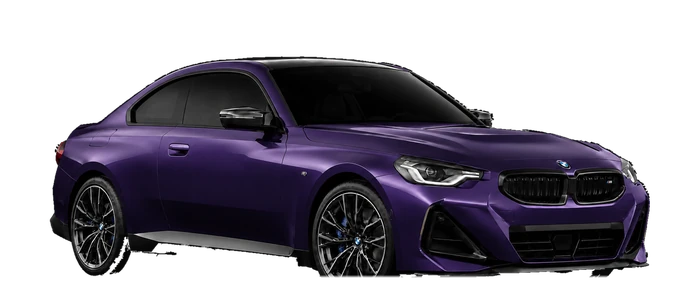
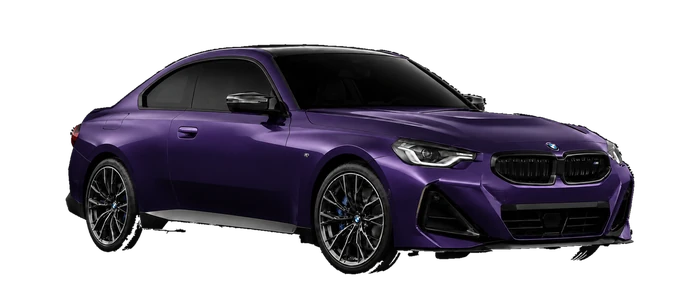
Fix: les estaba cortando las ruedas · fuera la luz de arriba · auto mas grande
EL CORTE DE LAS RUEDAS ERA UN ERROR MIO, no un problema del angulo de
las fotos. Mi deteccion de la linea de piso buscaba "donde colapsa el
ancho de la silueta" y cortaba ahi. Ese punto NO es donde apoyan las
ruedas: es donde SE TERMINA LA CARROCERIA y quedan solo los neumaticos.

Medido en el Mercedes: el ancho cae de 1279 a 729 px en la fila 750
—ahi termina el paragolpes— pero el neumatico sigue hasta la fila 800.
Encima le restaba 6 px mas y le aplicaba una pluma de 7. O sea que les
serruchaba unos 50 px de rueda a los cuatro autos, que es exactamente
lo que se veia.

El etiquetado por regiones conectadas ya termina donde termina el auto,
asi que no habia nada que cortar: la linea de apoyo es simplemente la
fila mas baja con alfa. Se elimina el recorte entero.

SE VA LA LUZ CENITAL. Sobre un fondo que tiene que ser negro pleno, un
halo arriba se lee como una mancha gris, no como iluminacion. Ahora la
unica fuente es el piso, que es ademas como se ilumina una tarima de
salon de verdad: el auto recortado contra la oscuridad y el disco
encendido abajo. El disco se agranda y se refuerza para sostener sola
la escena.

EL AUTO DEL MEDIO, MAS GRANDE: del 54% al 68% del escenario, o sea de
574 a 655 px de auto. La geometria se recalcula entera con los recortes
nuevos (el auto ocupa ahora de 0.093 a 0.906 del lienzo) y los vecinos
bajan a 0.31 de escala, que es lo que deja que sigan sin tocarse: peor
hueco 3.09% en escritorio y 2.61% en movil.
[…]

diff --git a/public/index.html b/public/index.html
@@ -823,22 +823,15 @@ video::-webkit-media-controls{ display:none !important; }
 .gar-escena{
   position:relative;
   overflow:hidden;
-  aspect-ratio:2.4;
+  aspect-ratio:2.25;
   background:var(--void);
 }
 
-/* LA LUZ CENITAL. Una sola fuente, arriba y al centro, como el softbox
-   de un stand. Muy tenue a propósito: lo que tiene que iluminar es la
-   pared del fondo para que el nombre se despegue, no la escena entera. */
-.gar-escena::before{
-  content:"";
-  position:absolute;
-  inset:0;
-  z-index:0;
-  pointer-events:none;
-  background:radial-gradient(105% 62% at 50% 2%,
-             rgba(255,255,255,.058), rgba(255,255,255,.018) 42%, transparent 68%);
-}
+/* NO HAY LUZ DE ARRIBA. Estuvo un momento y se saco: sobre un fondo que
+   tiene que ser negro pleno, un halo cenital se lee como una mancha
+   gris, no como iluminacion. La unica fuente es el piso — la luz viene
+   de abajo, que es ademas como se ilumina una tarima de salon de
+   verdad: el auto recortado contra la oscuridad y el disco encendido. */
 
 /* El grano, misma técnica que en el puente: sobre negro puro no hace
    nada, y aparece donde el degradado se aclara, que es exactamente
@@ -864,14 +857,16 @@ video::-webkit-media-controls{ display:none !important; }
 
    La máscara la desvanece hacia abajo, como si la luz cenital no
    llegara al zócalo de la pared. */
-/* El 27% no es a ojo: medido, el techo de los cuatro autos cae entre el
-   34% y el 36% del alto del escenario, y la palabra mide un 13%. Desde
-   el 27% su base llega al 40%, así que el auto le cruza el tercio de
-   abajo — suficiente para que se lea detrás, poco para que se pierda. */
+/* La altura no es a ojo: se recalcula cada vez que cambia el tamaño del
+   auto, porque de eso depende dónde queda el techo. Con el auto al 68%
+   del escenario su techo cae entre el 27% y el 30%, y la palabra mide un
+   13%: desde el 17% su base llega al 30%, así que el techo le cruza el
+   borde de abajo. Suficiente para que se lea detrás, poco para que se
+   pierda —el auto es ancho y más abajo se comería el centro—. */
 .gar-marca{
   position:absolute;
   left:50%;
-  top:27%;
+  top:17%;
   z-index:0;
   transform:translateX(-50%);
   white-space:nowrap;
@@ -901,10 +896,10 @@ video::-webkit-media-controls{ display:none !important; }
   position:absolute;
   left:50%;
   bottom:16%;
-  width:54%;
+  width:68%;
   z-index:2;
   opacity:0;
-  transform-origin:50% 91.5%;
+  transform-origin:50% 92%;
   transform:translateX(-50%) scale(.5);
   transition:left .72s var(--ease), transform .72s var(--ease), opacity .72s var(--ease);
   will-change:left, transform, opacity;
@@ -921,14 +916,14 @@ video::-webkit-media-controls{ display:none !important; }
 .gar-auto::before{
   content:"";
   position:absolute;
-  left:-7%;
-  right:-7%;
-  bottom:8.5%;
-  height:15%;
+  left:-11%;
+  right:-11%;
+  bottom:5.5%;
+  height:19%;
   transform:translateY(50%);
   border-radius:50%;
   background:radial-gradient(50% 50% at 50% 50%,
-             rgba(255,255,255,.21), rgba(255,255,255,.06) 46%, transparent 71%);
+             rgba(255,255,255,.30), rgba(255,255,255,.085) 44%, transparent 72%);
   z-index:0;
 }
 
@@ -966,10 +961,10 @@ video::-webkit-media-controls{ display:none !important; }
 .gar-auto.es-siguiente{
   opacity:.42;
   z-index:2;
-  transform:translateX(-50%) scale(.44);
+  transform:translateX(-50%) scale(.31);
 }
-.gar-auto.es-previo   { left:12.9%; }
-.gar-auto.es-siguiente{ left:87.1%; }
+.gar-auto.es-previo   { left:10.9%; }
+.gar-auto.es-siguiente{ left:89.1%; }
 
 /* ── el texto del grupo ───────────────────────────────────────────
    Ahora el nombre vive en la escena, así que acá abajo queda sólo la
@@ -1038,12 +1033,12 @@ video::-webkit-media-controls{ display:none !important; }
    324 px de ancho tres autos que no se tocan no entran de otra forma. */
 @media (max-width:820px){
   .gar-escena{ aspect-ratio:1.85; }
-  .gar-marca{ top:34%; font-size:clamp(1.1rem,5.4vw,2rem); }
-  .gar-auto{ width:62%; bottom:15%; }
+  .gar-marca{ top:24%; font-size:clamp(1.1rem,5.4vw,2rem); }
+  .gar-auto{ width:70%; bottom:13%; }
   .gar-auto.es-previo,
-  .gar-auto.es-siguiente{ transform:translateX(-50%) scale(.37); }
-  .gar-auto.es-previo   { left:11.4%; }
-  .gar-auto.es-siguiente{ left:88.6%; }
+  .gar-auto.es-siguiente{ transform:translateX(-50%) scale(.30); }
+  .gar-auto.es-previo   { left:10.6%; }
+  .gar-auto.es-siguiente{ left:89.4%; }
   .gar-flecha{ width:2.2rem; height:2.2rem; }
   .gar-texto{ min-height:5.5rem; }
 }
